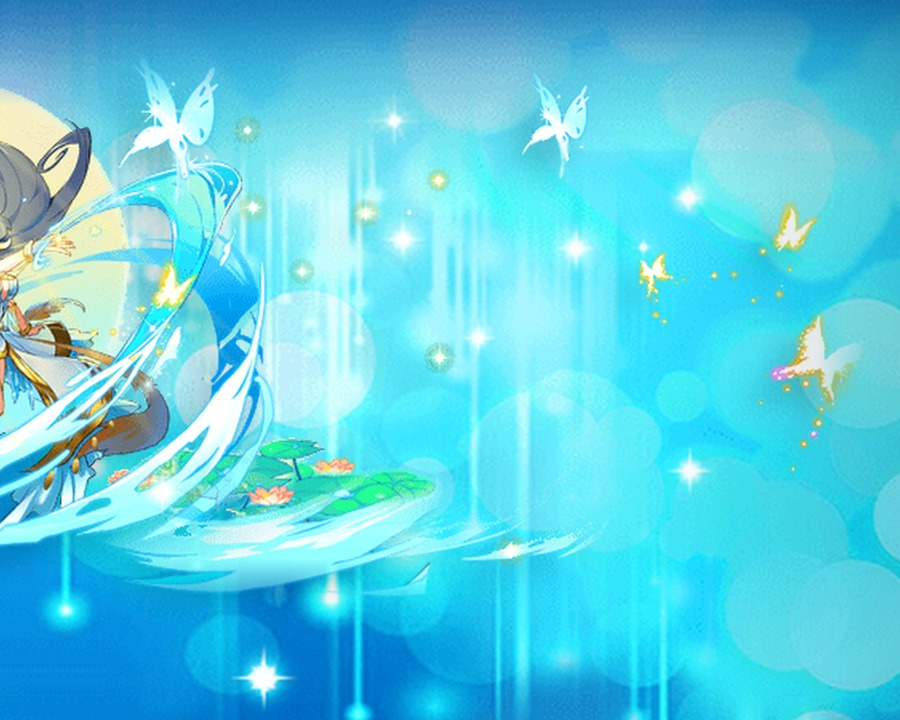
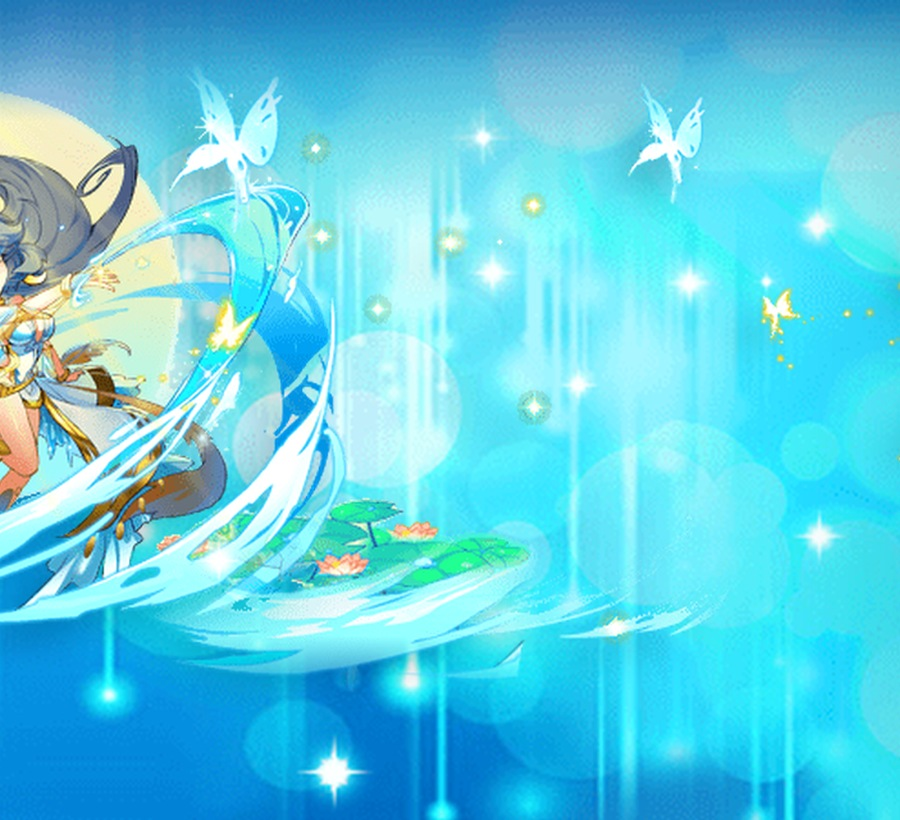
Fix mobile card image framing

diff --git a/index.html b/index.html
@@ -170,6 +170,7 @@
     }
 
     .card-copy {
+      box-sizing: border-box;
       display: flex;
       flex-direction: column;
       align-items: flex-end;
@@ -183,6 +184,7 @@
     }
 
     .data-copy {
+      box-sizing: border-box;
       display: flex;
       flex-direction: column;
       align-items: flex-end;
@@ -285,10 +287,9 @@
       }
 
       .tool-card.primary,
-      .tool-card.data-card,
-      .card-copy,
-      .data-copy {
-        min-height: 300px;
+      .tool-card.data-card {
+        aspect-ratio: 900 / 820;
+        min-height: 0;
       }
 
       .card-picture img {
@@ -305,7 +306,9 @@
 
       .card-copy,
       .data-copy {
+        height: 100%;
         width: 72%;
+        min-height: 100%;
         padding: 20px;
       }
 
